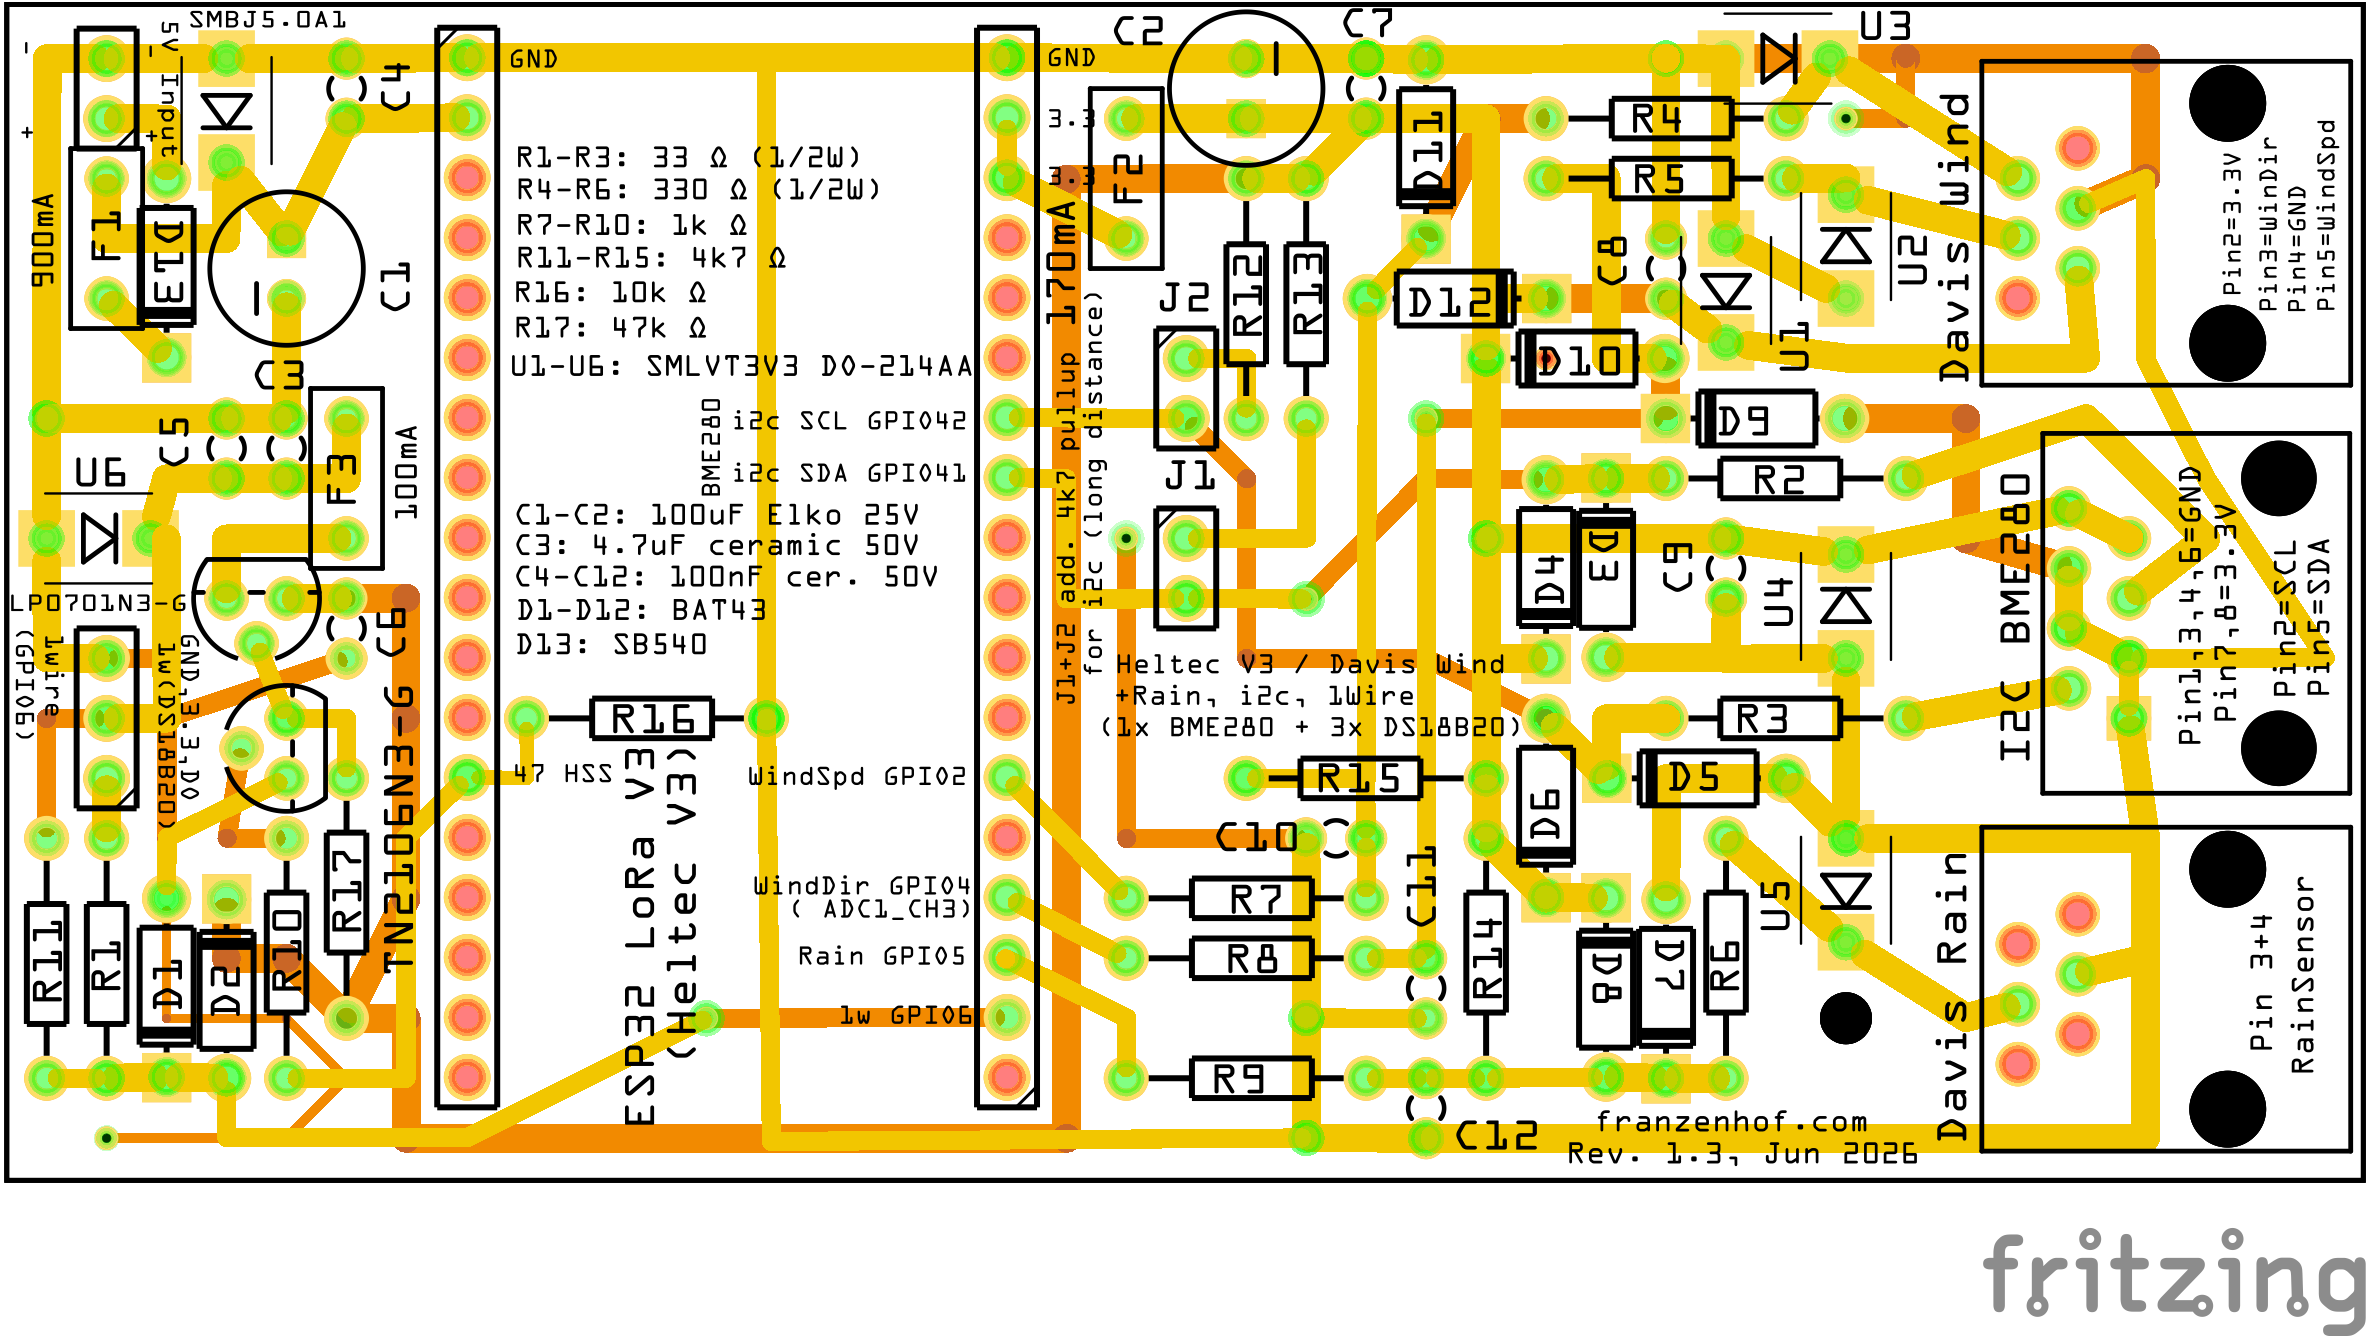
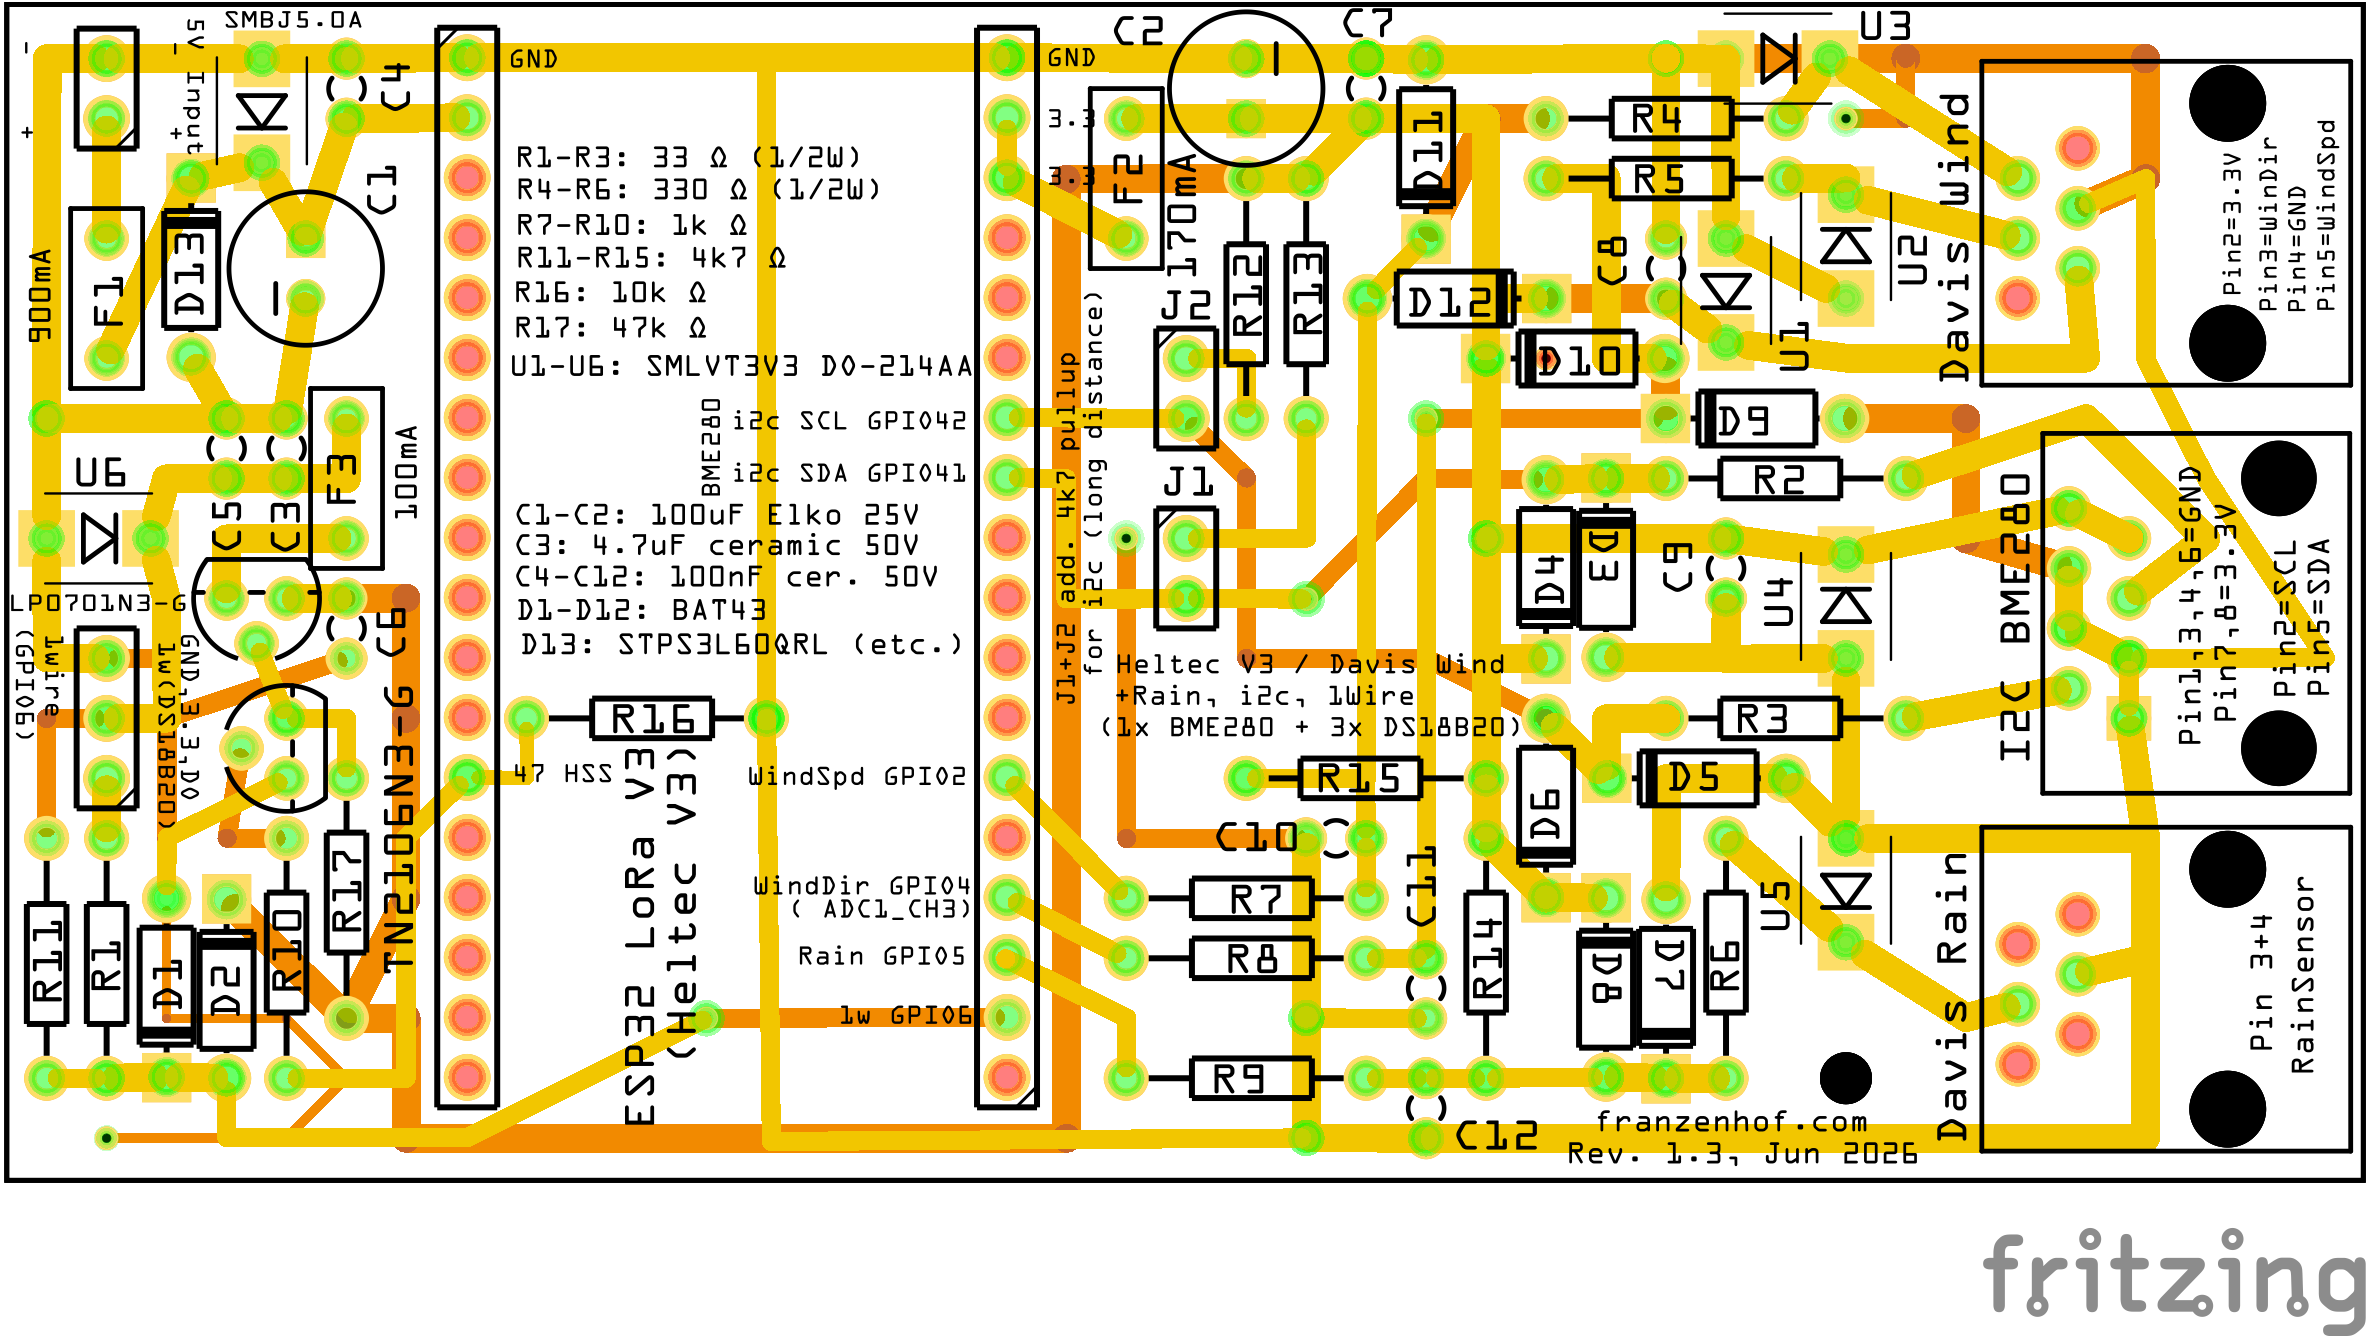
the reverse polarity protection was changed to a crowbar solution

diff --git a/pcblayout/lorawan-weather-node-pcb_bom.html b/pcblayout/lorawan-weather-node-pcb_bom.html
@@ -29,8 +29,8 @@ td {
 
 <body>
 <h1>Bill of Materials: lorawan-weather-node-pcb.fzz</h1>
-<p class="meta">C:/Users/gerha/Documents/git/lorawan-weather-node/pcblayout/lorawan-weather-node-pcb.fzz</p>
-<p class="meta">Saturday, July 4 2026, 00:46:33</p>
+<p class="meta">C:\Users\gerha\Documents\git\lorawan-weather-node\pcblayout\lorawan-weather-node-pcb.fzz</p>
+<p class="meta">Tuesday, July 7 2026, 15:16:28</p>
 
 <h2>Assembly List</h2>
 <table>
@@ -120,7 +120,7 @@ td {
     <td></td>
     <td></td>
     <td>Ceramic Capacitor</td>
-    <td class="props">Kapazität 100nF; Spannung 35V; Paket 100 mil [THT, multilayer]</td>
+    <td class="props">Kapazität 100nF; Spannung 50V; Paket 100 mil [THT, multilayer]</td>
 </tr>
 <tr>
     <td>C9</td>
@@ -236,10 +236,10 @@ td {
 </tr>
 <tr>
     <td>D13</td>
-    <td>SB540</td>
+    <td>STPS3L60QRL</td>
     <td></td>
-    <td>Rectifier Diode</td>
-    <td class="props">Paket 300 mil [THT]; Typ Rectifier; MN. SB540; Bauteilnummer SB540</td>
+    <td>Schottky Diode</td>
+    <td class="props">Paket 300 mil [THT]; Typ Schottky; MN. STPS3L60QRL; Bauteilnummer STPS3L60QRL</td>
 </tr>
 <tr>
     <td>Davis Rain</td>
@@ -431,7 +431,7 @@ td {
     <td class="props">Widerstand 47kΩ; Toleranz ±5%; Leistung 0.25W; bands 4; Paket THT; Pin-Abstand 400 mil; MN. MBA02040C4702FRP00; Bauteilnummer MBA02040C4702FRP00</td>
 </tr>
 <tr>
-    <td>SMBJ5.0A1</td>
+    <td>SMBJ5.0A</td>
     <td>SMBJ5.0A</td>
     <td></td>
     <td>DIODE-ZENER</td>
@@ -537,18 +537,11 @@ td {
     <td class="props">Kapazität 4.7µF; Spannung 50V; Paket 100 mil [THT, multilayer]; MN. FG16X7R1H475KRT06; Bauteilnummer FG16X7R1H475KRT06</td>
 </tr>
 <tr>
-    <td>8</td>
+    <td>9</td>
     <td></td>
     <td></td>
     <td>Ceramic Capacitor</td>
     <td class="props">Kapazität 100nF; Spannung 50V; Paket 100 mil [THT, multilayer]</td>
-</tr>
-<tr>
-    <td>1</td>
-    <td></td>
-    <td></td>
-    <td>Ceramic Capacitor</td>
-    <td class="props">Kapazität 100nF; Spannung 35V; Paket 100 mil [THT, multilayer]</td>
 </tr>
 <tr>
     <td>12</td>
@@ -559,10 +552,10 @@ td {
 </tr>
 <tr>
     <td>1</td>
-    <td>SB540</td>
+    <td>STPS3L60QRL</td>
     <td></td>
-    <td>Rectifier Diode</td>
-    <td class="props">Paket 300 mil [THT]; Typ Rectifier; MN. SB540; Bauteilnummer SB540</td>
+    <td>Schottky Diode</td>
+    <td class="props">Paket 300 mil [THT]; Typ Schottky; MN. STPS3L60QRL; Bauteilnummer STPS3L60QRL</td>
 </tr>
 <tr>
     <td>1</td>